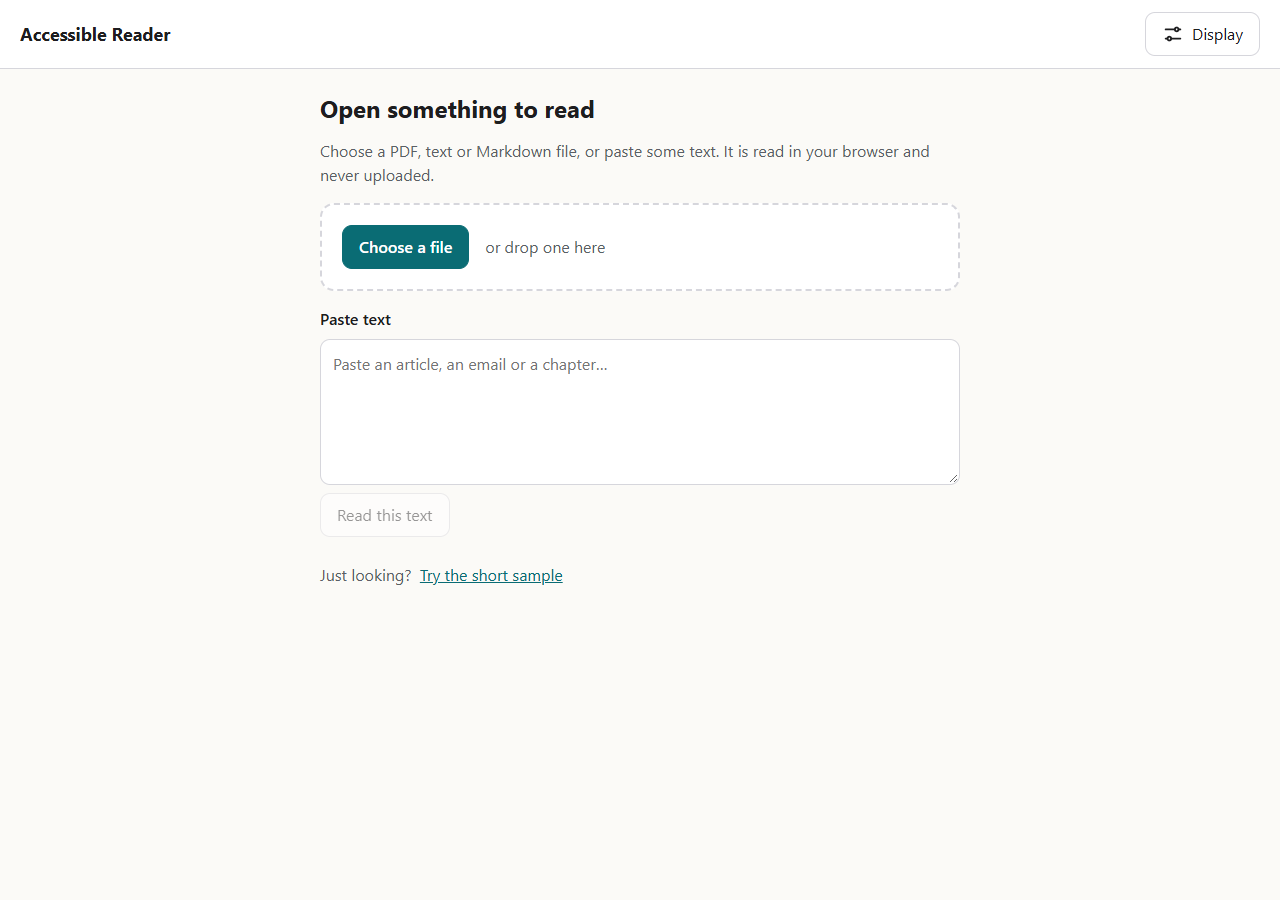
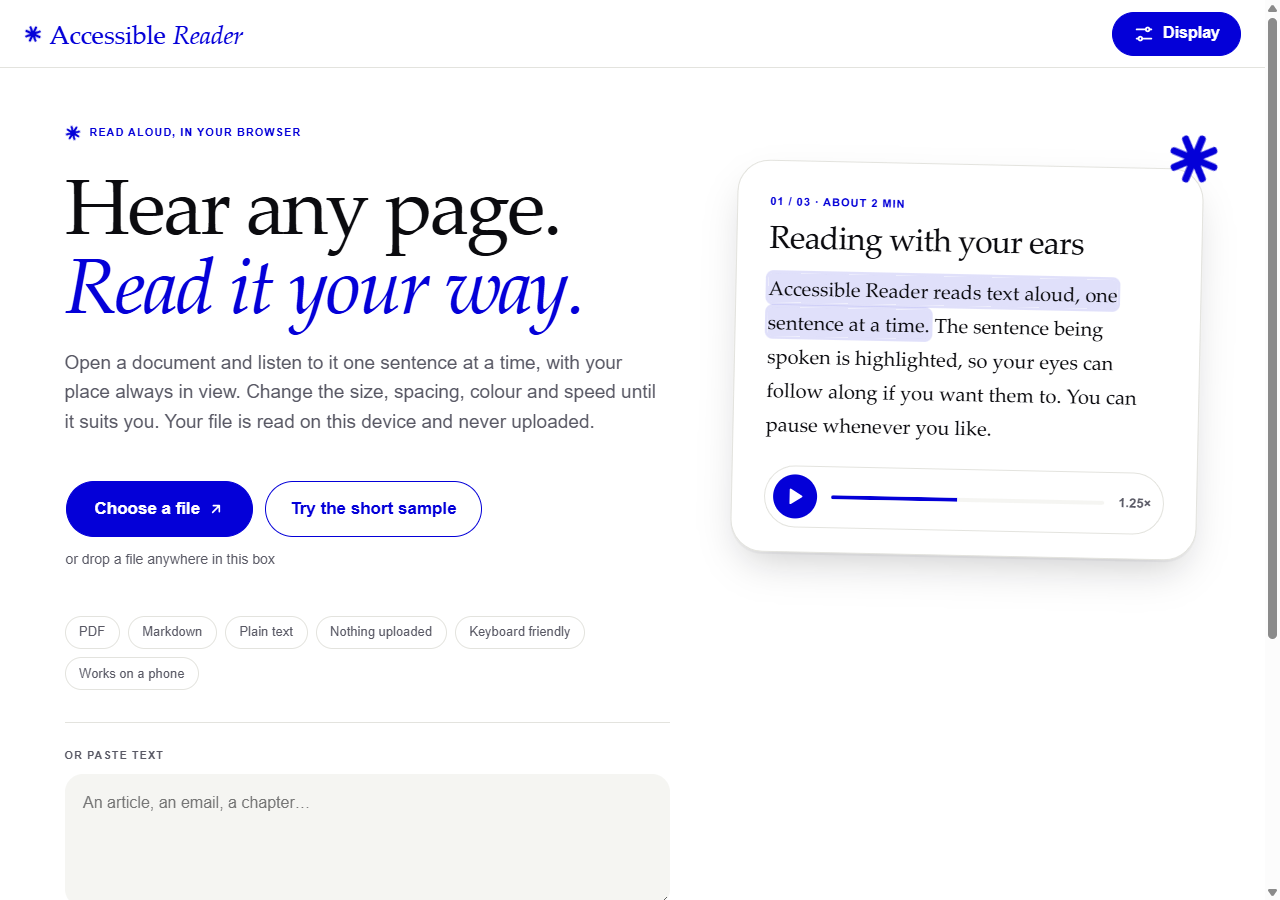
Update the README and screenshots for the redesign
New screenshots of the landing page and reader, a note on the visual direction
(ideas only, nothing copied), the contrast test, and the current test counts.

diff --git a/AccessibleReader/README.md b/AccessibleReader/README.md
@@ -7,9 +7,11 @@ to suit you. It runs entirely in the browser: the file is never uploaded.
 **Live: https://accessible-reader-three.vercel.app** (try the short sample, or open
 one of your own files)
 
+![The landing page: a large serif headline, a preview of the reader, and the choices for opening a file](docs/screenshots/open.png)
+
 | | |
 |---|---|
-| ![The reader in a light theme, with the current sentence highlighted](docs/screenshots/reading.png) | ![The reader in a dark theme with the Display panel open](docs/screenshots/reading-dark.png) |
+| ![The reader in the light theme, with the current sentence highlighted](docs/screenshots/reading.png) | ![The reader in the dark theme with the Display panel open](docs/screenshots/reading-dark.png) |
 | ![The Display panel in the cream theme](docs/screenshots/display-panel.png) | ![The reader on a phone](docs/screenshots/mobile.png) |
 
 ## What it does
@@ -21,6 +23,9 @@ one of your own files)
 - **Reads aloud** with the browser's own speech engine, sentence by sentence.
   Click any sentence to start from it. Pause, skip a sentence or a chapter, change
   the speed and pick a voice. Reading carries on into the next chapter by itself.
+- **Shows where you are**: a progress line through the chapter, an "about 3 min
+  left" estimate that follows your chosen speed, and a reading time for each
+  chapter. These are estimates, so they say "about".
 - **Remembers your place** in each document, and your display settings, in the
   browser on your device.
 - **Adjusts the page**: text size, line spacing, letter and word spacing, line
@@ -75,11 +80,20 @@ file ──► pdf.js text fragments with positions        (PDF only)
 - A cancelled utterance fires its end event late, so every call gets a run number
   and callbacks from an earlier run are ignored.
 - The PDF library is loaded only when a PDF is opened, so the main bundle is
-  168 KB (56 KB gzipped).
+  173 KB (57 KB gzipped).
 
 ## Design
 
-Built to follow Apple's Human Interface Guidelines, translated for the web:
+**Visual direction.** An editorial look: one confident accent (ultramarine) on
+clean paper, a refined serif for display type against a plain grotesk for the
+interface, tiny uppercase labels, hairline rules, a numbered chapter index, pill
+controls and a small spinning asterisk as an ornament. It takes its cue from the
+restrained gallery style of [Site of Sites](https://www.siteofsites.co/). Those
+are ideas only; no code, images or fonts were taken from it. The headings use
+system serif fonts (Iowan Old Style, Palatino or Georgia, whichever the device
+has), so the exact look varies a little between devices.
+
+The structure follows Apple's Human Interface Guidelines, translated for the web:
 
 - **Layout:** a split view with chapters as a sidebar and a distraction-free
   reading pane, collapsing to one column on narrow screens. Controls sit in a
@@ -87,9 +101,11 @@ Built to follow Apple's Human Interface Guidelines, translated for the web:
 - **Typography:** `rem` units that respect the browser's text size, text that is
   never justified, adjustable line length, and a typeface option with wide, open
   letterforms.
-- **Colour:** semantic theme variables, a light, dark and warm cream theme, and
-  dimmed text in focus mode kept above the 4.5:1 contrast ratio. That is computed
-  in the browser test for both the dark and cream themes.
+- **Colour:** semantic theme variables for a light, dark and warm cream theme.
+  A unit test reads the real colours from the stylesheet and checks that every
+  text and background pair, in every theme, is at least 4.5:1, so a colour cannot
+  be changed without that being rechecked. Dimmed text in focus mode is held to
+  the same standard, in the unit test and again in the browser.
 - **Input:** every control is at least 44 px, focus is always visible, nothing
   depends on hover, and there are keyboard shortcuts: Space to play or pause, the
   arrow keys for sentences, `[` and `]` for chapters, `-` and `+` for speed. Space
@@ -108,13 +124,14 @@ who rely on them. Treat the accessibility claims as "built to the guidance", not
 
 ```bash
 npm install
-npm test                         # 53 unit tests, Node's built-in runner, no browser
+npm test                         # 68 unit tests, Node's built-in runner, no browser
 ```
 
 The unit tests cover the parts most likely to be subtly wrong: sentence splitting
 ("Dr. Smith", "3.5 mg", "J. K. Rowling"), chapter detection, rebuilding paragraphs
 from PDF positions, the playback controller (including late events from cancelled
-speech), and saved position and preferences.
+speech), saved position and preferences, reading-time estimates, and the colour contrast
+of every theme.
 
 A second test drives the built site in a real Chrome and makes 47 checks: opening
 the sample and a real multi-page PDF, chapters found from its headings,
@@ -143,6 +160,8 @@ node e2e/browser-test.mjs "<path to chrome>" http://localhost:4174/ docs/screens
   caught.
 - **A duplicated status message** read "Chapter 3: Chapter 3: Your files stay with
   you".
+- **"About under a minute left"** appeared in the redesign. Spotted in a
+  screenshot, then fixed and tested so the labels can never combine those words.
 - **The phone player bar covered most of the text.** It is now two compact rows,
   with speed and voice behind a toggle.
 
